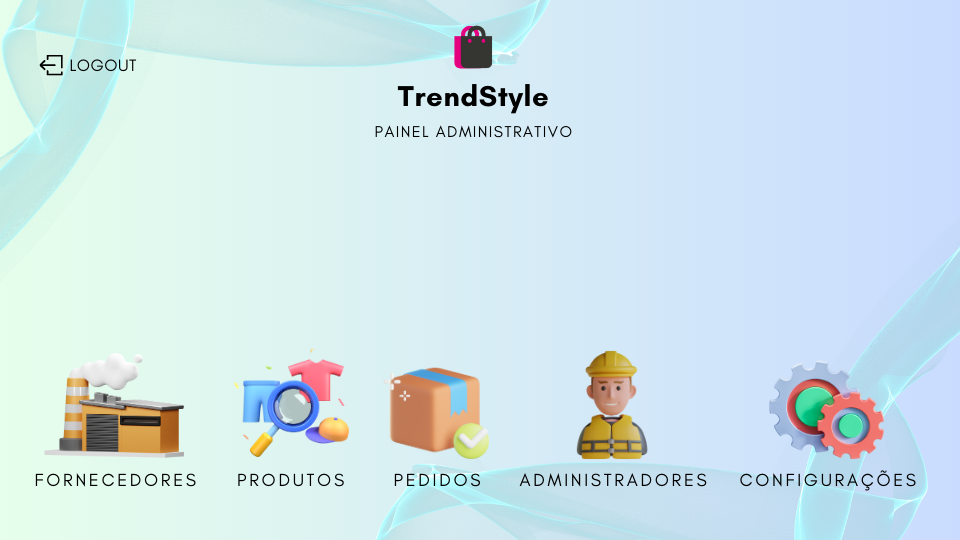
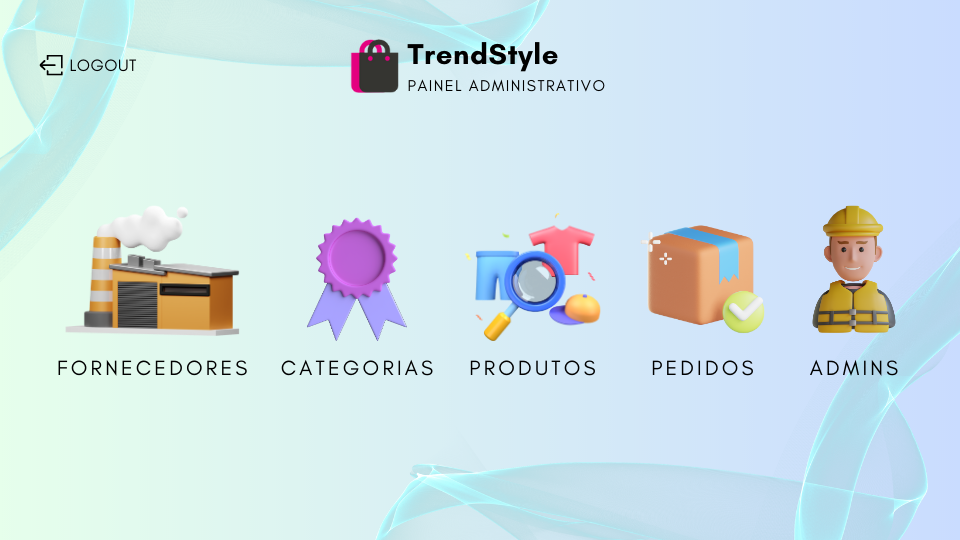
Update Panel Design

diff --git a/TrendStyle/src/views/admin/AdminPanel.java b/TrendStyle/src/views/admin/AdminPanel.java
@@ -38,7 +38,7 @@ public class AdminPanel extends javax.swing.JFrame {
         ButtonVendors = new javax.swing.JButton();
         ButtonOrders = new javax.swing.JButton();
         ButtonAdministrator = new javax.swing.JButton();
-        ButtonConfiguration = new javax.swing.JButton();
+        ButtonCategory = new javax.swing.JButton();
         Background = new javax.swing.JLabel();
 
         setDefaultCloseOperation(javax.swing.WindowConstants.EXIT_ON_CLOSE);
@@ -68,7 +68,7 @@ public class AdminPanel extends javax.swing.JFrame {
                 ButtonProductsActionPerformed(evt);
             }
         });
-        Panel.add(ButtonProducts, new org.netbeans.lib.awtextra.AbsoluteConstraints(230, 340, 130, 160));
+        Panel.add(ButtonProducts, new org.netbeans.lib.awtextra.AbsoluteConstraints(460, 210, 150, 170));
 
         ButtonVendors.setBorderPainted(false);
         ButtonVendors.setContentAreaFilled(false);
@@ -80,7 +80,7 @@ public class AdminPanel extends javax.swing.JFrame {
                 ButtonVendorsActionPerformed(evt);
             }
         });
-        Panel.add(ButtonVendors, new org.netbeans.lib.awtextra.AbsoluteConstraints(30, 340, 170, 150));
+        Panel.add(ButtonVendors, new org.netbeans.lib.awtextra.AbsoluteConstraints(50, 200, 210, 180));
 
         ButtonOrders.setBorderPainted(false);
         ButtonOrders.setContentAreaFilled(false);
@@ -92,7 +92,7 @@ public class AdminPanel extends javax.swing.JFrame {
                 ButtonOrdersActionPerformed(evt);
             }
         });
-        Panel.add(ButtonOrders, new org.netbeans.lib.awtextra.AbsoluteConstraints(380, 360, 110, 130));
+        Panel.add(ButtonOrders, new org.netbeans.lib.awtextra.AbsoluteConstraints(640, 220, 130, 160));
 
         ButtonAdministrator.setBorderPainted(false);
         ButtonAdministrator.setContentAreaFilled(false);
@@ -104,19 +104,19 @@ public class AdminPanel extends javax.swing.JFrame {
                 ButtonAdministratorActionPerformed(evt);
             }
         });
-        Panel.add(ButtonAdministrator, new org.netbeans.lib.awtextra.AbsoluteConstraints(520, 350, 190, 140));
+        Panel.add(ButtonAdministrator, new org.netbeans.lib.awtextra.AbsoluteConstraints(800, 200, 110, 180));
 
-        ButtonConfiguration.setBorderPainted(false);
-        ButtonConfiguration.setContentAreaFilled(false);
-        ButtonConfiguration.setMaximumSize(new java.awt.Dimension(50, 50));
-        ButtonConfiguration.setMinimumSize(new java.awt.Dimension(50, 50));
-        ButtonConfiguration.setPreferredSize(new java.awt.Dimension(50, 50));
-        ButtonConfiguration.addActionListener(new java.awt.event.ActionListener() {
+        ButtonCategory.setBorderPainted(false);
+        ButtonCategory.setContentAreaFilled(false);
+        ButtonCategory.setMaximumSize(new java.awt.Dimension(50, 50));
+        ButtonCategory.setMinimumSize(new java.awt.Dimension(50, 50));
+        ButtonCategory.setPreferredSize(new java.awt.Dimension(50, 50));
+        ButtonCategory.addActionListener(new java.awt.event.ActionListener() {
             public void actionPerformed(java.awt.event.ActionEvent evt) {
-                ButtonConfigurationActionPerformed(evt);
+                ButtonCategoryActionPerformed(evt);
             }
         });
-        Panel.add(ButtonConfiguration, new org.netbeans.lib.awtextra.AbsoluteConstraints(730, 360, 200, 130));
+        Panel.add(ButtonCategory, new org.netbeans.lib.awtextra.AbsoluteConstraints(280, 210, 160, 170));
 
         Background.setIcon(new javax.swing.ImageIcon(getClass().getResource("/media/adminPanel.png"))); // NOI18N
         Panel.add(Background, new org.netbeans.lib.awtextra.AbsoluteConstraints(0, 0, -1, -1));
@@ -159,9 +159,9 @@ public class AdminPanel extends javax.swing.JFrame {
         dispose();
     }//GEN-LAST:event_ButtonOrdersActionPerformed
 
-    private void ButtonConfigurationActionPerformed(java.awt.event.ActionEvent evt) {//GEN-FIRST:event_ButtonConfigurationActionPerformed
+    private void ButtonCategoryActionPerformed(java.awt.event.ActionEvent evt) {//GEN-FIRST:event_ButtonCategoryActionPerformed
         
-    }//GEN-LAST:event_ButtonConfigurationActionPerformed
+    }//GEN-LAST:event_ButtonCategoryActionPerformed
 
     private void ButtonAdministratorActionPerformed(java.awt.event.ActionEvent evt) {//GEN-FIRST:event_ButtonAdministratorActionPerformed
         AdminAdministratorScreen page = new AdminAdministratorScreen(this.ID);
@@ -208,7 +208,7 @@ public class AdminPanel extends javax.swing.JFrame {
     private javax.swing.JLabel Background;
     private javax.swing.JButton ButtonAdministrator;
     private javax.swing.JButton ButtonBack;
-    private javax.swing.JButton ButtonConfiguration;
+    private javax.swing.JButton ButtonCategory;
     private javax.swing.JButton ButtonOrders;
     private javax.swing.JButton ButtonProducts;
     private javax.swing.JButton ButtonVendors;

diff --git a/TrendStyle/src/views/client/ClientPanel.java b/TrendStyle/src/views/client/ClientPanel.java
@@ -69,7 +69,7 @@ public class ClientPanel extends javax.swing.JFrame {
                 ButtonShopActionPerformed(evt);
             }
         });
-        Panel.add(ButtonShop, new org.netbeans.lib.awtextra.AbsoluteConstraints(80, 330, 140, 180));
+        Panel.add(ButtonShop, new org.netbeans.lib.awtextra.AbsoluteConstraints(80, 240, 140, 180));
 
         ButtonWallet.setBorderPainted(false);
         ButtonWallet.setContentAreaFilled(false);
@@ -81,7 +81,7 @@ public class ClientPanel extends javax.swing.JFrame {
                 ButtonWalletActionPerformed(evt);
             }
         });
-        Panel.add(ButtonWallet, new org.netbeans.lib.awtextra.AbsoluteConstraints(240, 350, 140, 160));
+        Panel.add(ButtonWallet, new org.netbeans.lib.awtextra.AbsoluteConstraints(240, 260, 140, 160));
 
         ButtonConfiguration.setBorderPainted(false);
         ButtonConfiguration.setContentAreaFilled(false);
@@ -93,7 +93,7 @@ public class ClientPanel extends javax.swing.JFrame {
                 ButtonConfigurationActionPerformed(evt);
             }
         });
-        Panel.add(ButtonConfiguration, new org.netbeans.lib.awtextra.AbsoluteConstraints(410, 340, 130, 170));
+        Panel.add(ButtonConfiguration, new org.netbeans.lib.awtextra.AbsoluteConstraints(410, 250, 130, 170));
 
         ButtonOrder.setBorderPainted(false);
         ButtonOrder.setContentAreaFilled(false);
@@ -105,7 +105,7 @@ public class ClientPanel extends javax.swing.JFrame {
                 ButtonOrderActionPerformed(evt);
             }
         });
-        Panel.add(ButtonOrder, new org.netbeans.lib.awtextra.AbsoluteConstraints(570, 350, 120, 160));
+        Panel.add(ButtonOrder, new org.netbeans.lib.awtextra.AbsoluteConstraints(570, 260, 120, 160));
 
         ButtonCart.setBorderPainted(false);
         ButtonCart.setContentAreaFilled(false);
@@ -117,7 +117,7 @@ public class ClientPanel extends javax.swing.JFrame {
                 ButtonCartActionPerformed(evt);
             }
         });
-        Panel.add(ButtonCart, new org.netbeans.lib.awtextra.AbsoluteConstraints(710, 340, 170, 180));
+        Panel.add(ButtonCart, new org.netbeans.lib.awtextra.AbsoluteConstraints(710, 240, 170, 180));
 
         Background.setIcon(new javax.swing.ImageIcon(getClass().getResource("/media/clientPanel.png"))); // NOI18N
         Panel.add(Background, new org.netbeans.lib.awtextra.AbsoluteConstraints(0, 0, -1, -1));
